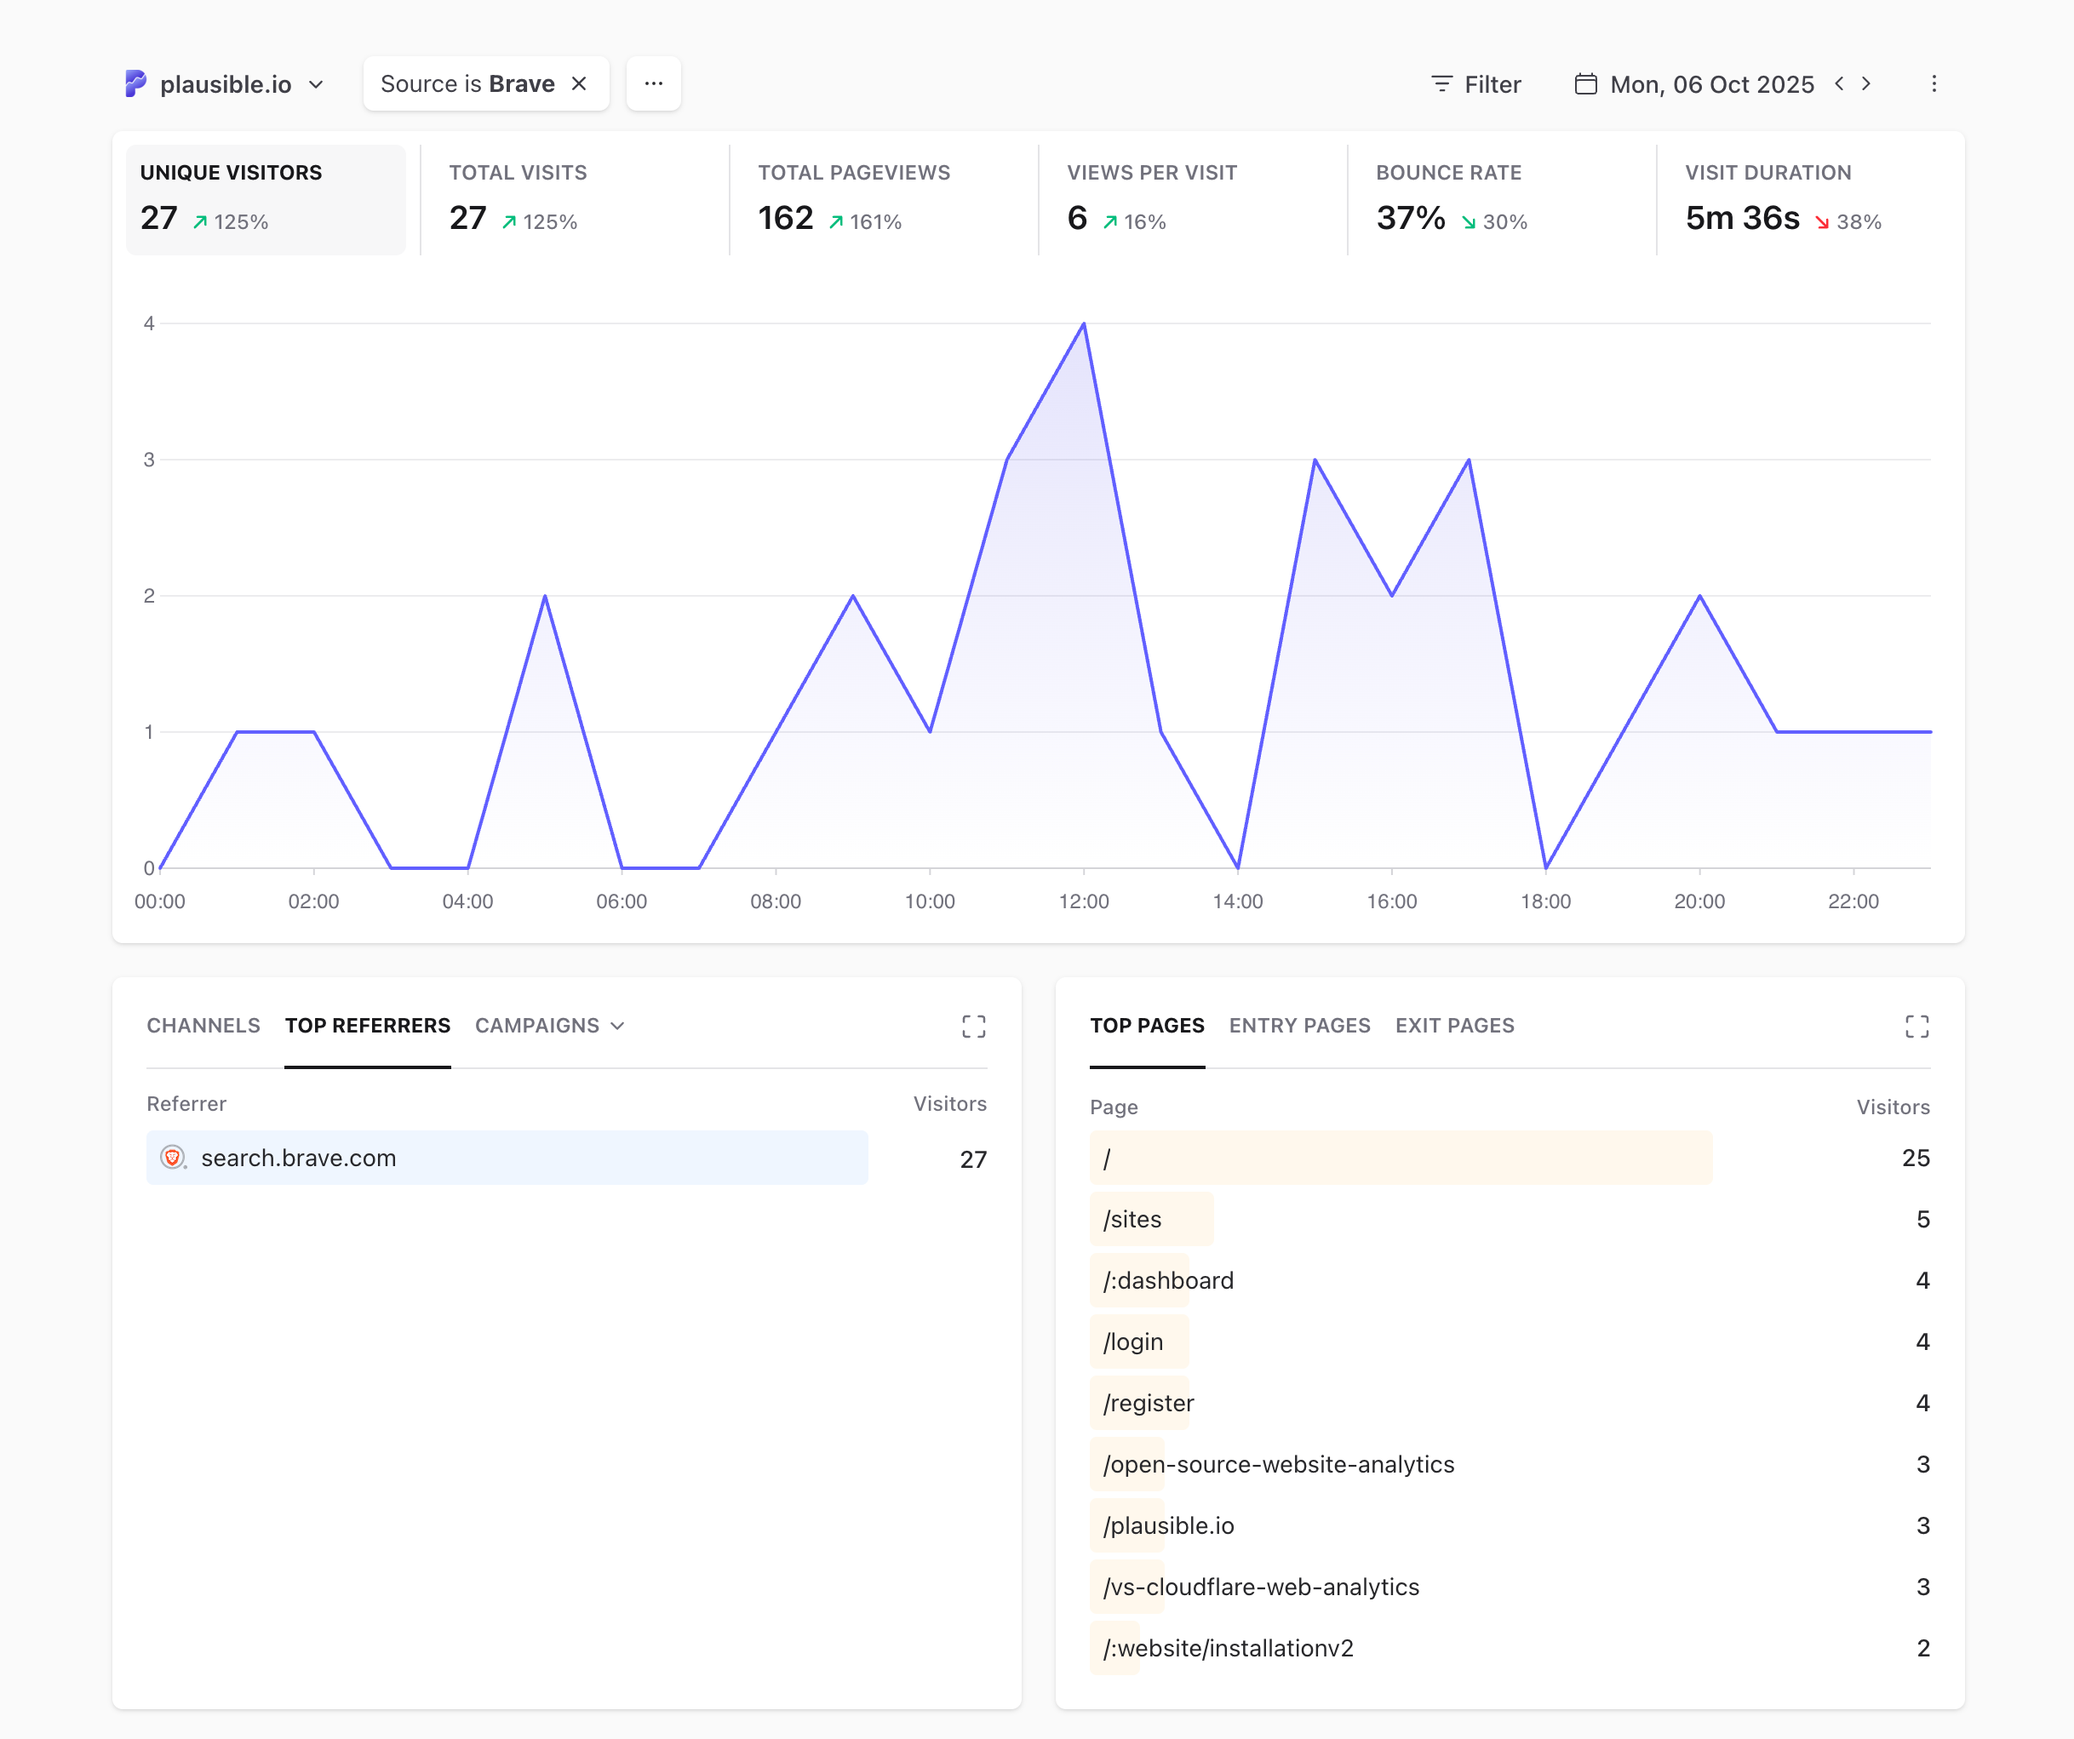
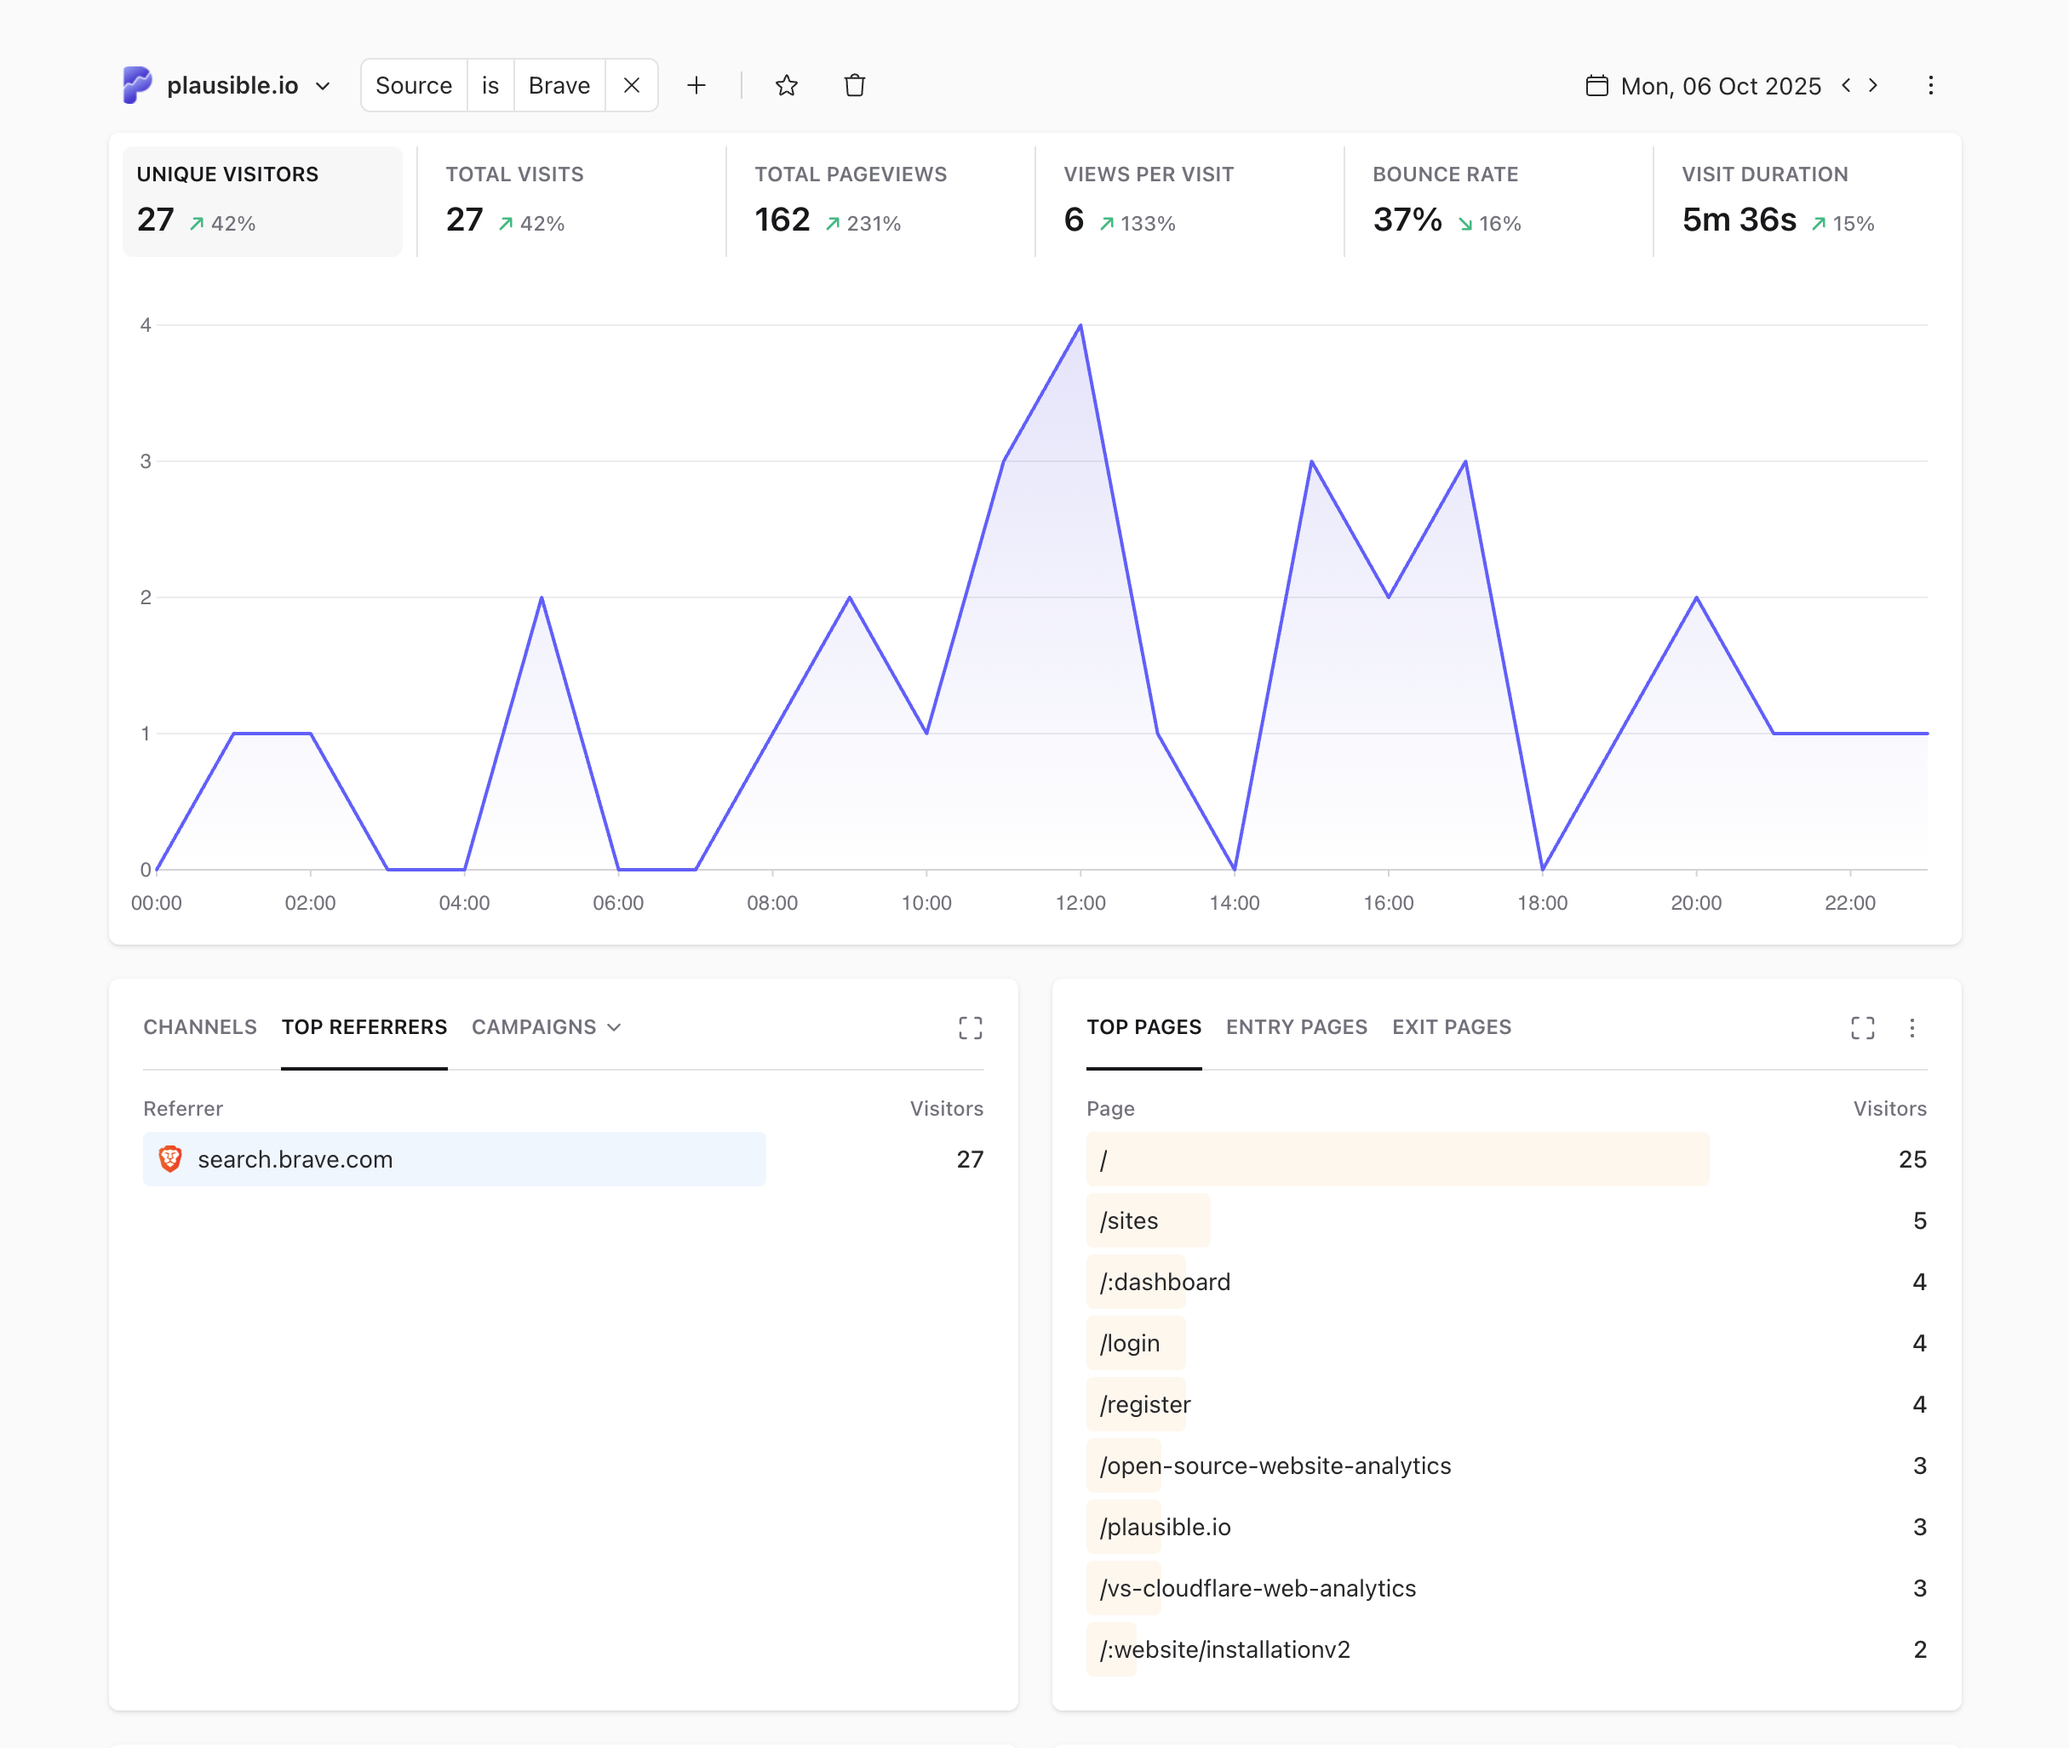
update images for the new filtering UI

diff --git a/docs/filters-segments.md b/docs/filters-segments.md
@@ -77,9 +77,7 @@ Learn more on how Plausible [handles cross-subdomain tracking here](subdomain-ho
 Click on any metric in the dashboard or use the **Filter** button to filter your audience to a desired segment. After completing your segment, click the **Save as segment** (star icon) option next to the filter pills.
 
 <div class="browser">
-    <video autoPlay loop muted controls width="100%">
-        <source src={useBaseUrl('/video/create-segment-in-plausible.mp4')} type="video/mp4" />
-    </video>
+    <img alt="Save filtered dashboard as a segment" src={useBaseUrl('img/save-filtered-dashboard-as-segment.png')} />
 </div>
 
 Segments can be saved either as "personal segments" (these are visible only to you) or as "site segments" (these are visible to all the team members that have access to your dashboard).
